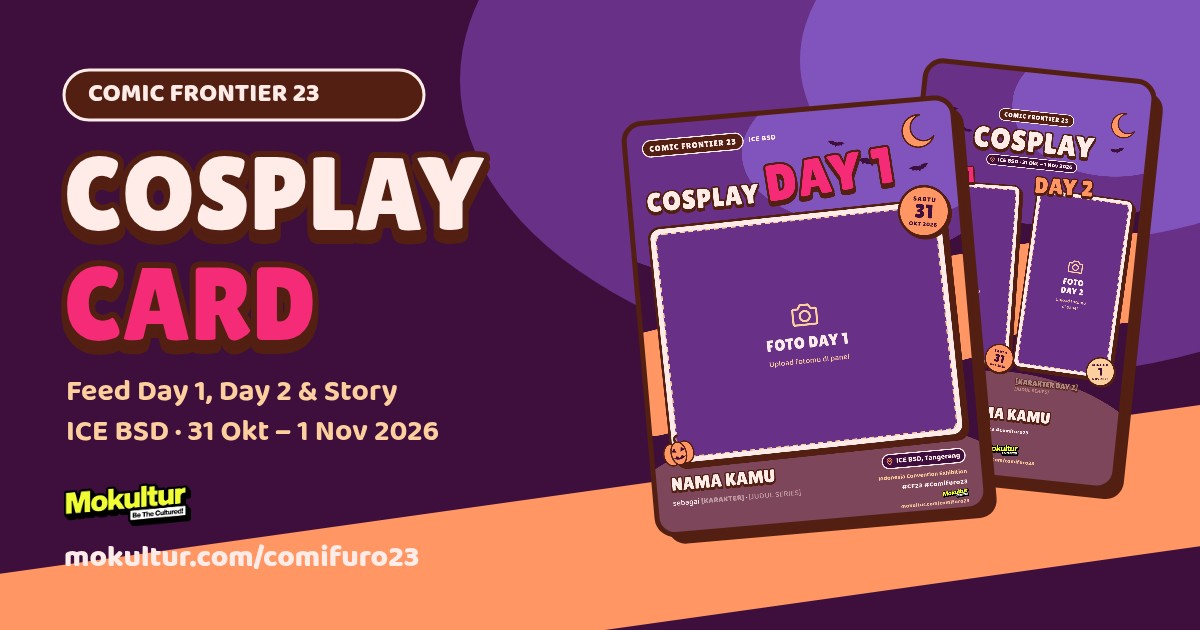
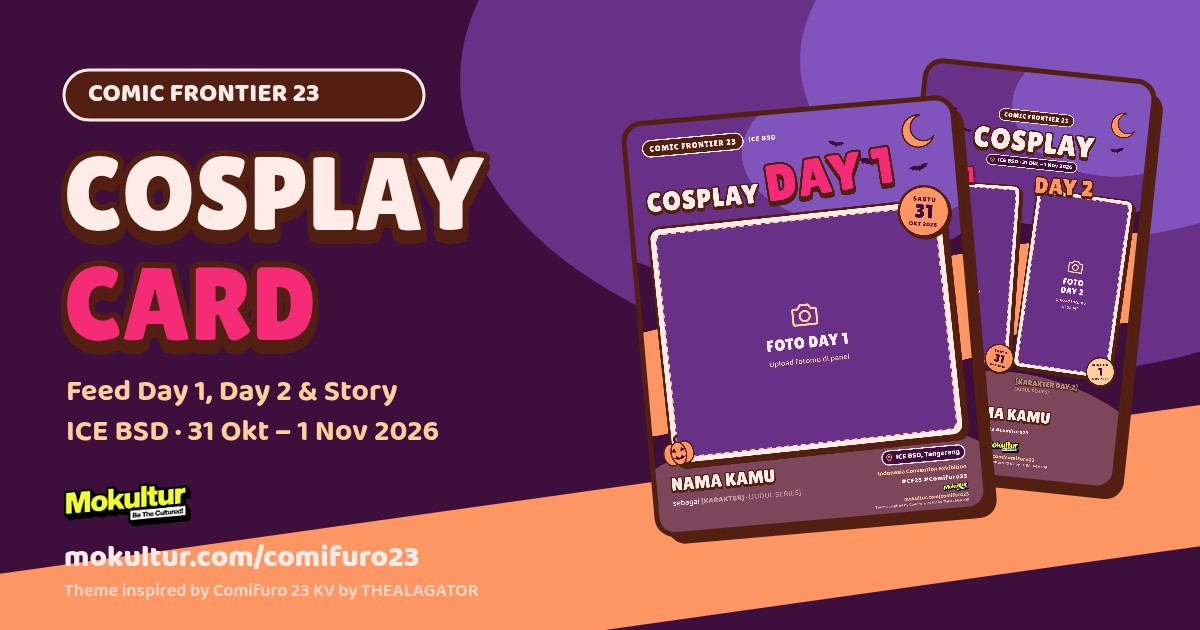
CF23: save every ready format at once; credit the KV
- The save bar's button saves every format whose photos are in, in one go.
  Feed Day 1 and Day 2 are ready as soon as their photo is in; Story once
  both are.
- The button reads "Upload foto Day N" until a format is ready, then
  "Download PNG" or "Download semua (3)" ("Simpan" on phones that share
  files). The per-format download and share buttons are gone. After a
  partial save it suggests adding the other day's photo.
- Under mokultur.com/comifuro23 on Feed, Story and the OG image (v=4):
  "Theme inspired by Comifuro 23 KV by THEALAGATOR". Feed's right column
  moves up slightly to make room.

Claude-Session: https://claude.ai/code/session_01PrRgchUN9mrkP6kn4eVbRs

Changed region(s): [[0.0617, 0.9048, 0.4008, 0.9651], [0.7092, 0.6937, 0.8633, 0.8143]]

diff --git a/src/routes/comifuro23/+page.svelte b/src/routes/comifuro23/+page.svelte
@@ -65,10 +65,12 @@
   function activeDaysHavePhoto(): boolean {
     return (R.TEMPLATES[template].days as Day[]).some((day) => days[day].image);
   }
-  const missing = $derived(activeDays.filter((day) => !days[day].image));
-  const ready = $derived(missing.length === 0);
   const currentLabel = $derived(FORMATS.find((format) => format.id === template)?.label ?? '');
-  const allReady = $derived(Boolean(days[1].image && days[2].image));
+  // Every format whose photos are in: saving always takes all of them at once.
+  const readyFormats = $derived(ALL.filter((id) => (R.TEMPLATES[id].days as Day[]).every((day) => days[day].image)));
+  const readyLabel = $derived(readyFormats.map((id) => FORMATS.find((format) => format.id === id)?.label ?? id).join(', '));
+  /** The first day still without a photo, Day 1 before Day 2. */
+  const nextMissing = $derived(([1, 2] as Day[]).find((day) => !days[day].image) ?? null);
 
   // Mokultur's Instagram, from the site's social links, for the posting call to action.
   const instagram = $derived.by(() => {
@@ -315,21 +317,25 @@
   }
 
   /**
-   * All three formats at once. Phones that can share several files get one share
-   * sheet; elsewhere the PNGs download one after another (a browser may ask once
-   * to allow multiple downloads).
+   * Saves every ready format in one go: Feed Day 1 and Day 2 as soon as their
+   * photo is in, and Story once both are. Phones that can share several files
+   * get one share sheet; elsewhere the PNGs download one after another (a
+   * browser may ask once to allow multiple downloads).
    */
-  async function downloadAll() {
-    if (!allReady || busy) return;
+  async function saveAll() {
+    if (busy) return;
+    if (!readyFormats.length) { pickMissing(); return; }
+    const ids = [...readyFormats];
     busy = true;
-    setStatus('Menyiapkan 3 gambar…');
+    setStatus(ids.length > 1 ? `Menyiapkan ${ids.length} gambar…` : 'Menyiapkan gambar…');
+    const more = nextMissing ? ` Tambah foto Day ${nextMissing} untuk format lainnya.` : '';
     try {
       const files: File[] = [];
-      for (const id of ALL) files.push(await makeFile(id));
+      for (const id of ids) files.push(await makeFile(id));
       if (canShare && navigator.canShare?.({ files })) {
         try {
           await navigator.share({ files, title: 'Cosplay Card CF23', text: caption });
-          setStatus(`3 Cosplay Card siap diposting. Jangan lupa tag ${instagram.handle}!`);
+          setStatus(`Jangan lupa tag ${instagram.handle}!${more}`);
           return;
         } catch (reason) {
           if (reason instanceof DOMException && reason.name === 'AbortError') { setStatus(''); return; }
@@ -339,7 +345,7 @@
         if (index) await new Promise((resolve) => setTimeout(resolve, 450));
         saveFile(file);
       }
-      setStatus(`3 PNG tersimpan. Posting dan tag ${instagram.handle}!`);
+      setStatus(`${files.length} PNG tersimpan. Posting dan tag ${instagram.handle}!${more}`);
     } catch {
       setStatus('Gambar gagal dibuat. Coba lagi, atau pakai foto dengan ukuran lebih kecil.', true);
     } finally {
@@ -357,41 +363,9 @@
     }
   }
 
-  async function download() {
-    if (!ready || busy) return;
-    busy = true;
-    setStatus('Menyiapkan gambar…');
-    try {
-      const file = await makeFile();
-      saveFile(file);
-      setStatus(`Tersimpan. Posting dan tag ${instagram.handle}!`);
-    } catch {
-      setStatus('Gambar gagal dibuat. Coba lagi, atau pakai foto dengan ukuran lebih kecil.', true);
-    } finally {
-      busy = false;
-    }
-  }
-
-  /** Phones: hand the PNG to the share sheet, so it can go straight to Photos or Instagram. */
-  async function share() {
-    if (!ready || busy) return;
-    busy = true;
-    setStatus('Menyiapkan gambar…');
-    try {
-      const file = await makeFile();
-      await navigator.share({ files: [file], title: 'Cosplay Card CF23', text: caption });
-      setStatus(`Jangan lupa tag ${instagram.handle} dan ${HASHTAGS.split(' ').slice(0, 2).join(' ')}!`);
-    } catch (reason) {
-      if (reason instanceof DOMException && reason.name === 'AbortError') setStatus('');
-      else setStatus('Tidak bisa membuka menu bagikan. Pakai tombol Download.', true);
-    } finally {
-      busy = false;
-    }
-  }
-
-  /** The save bar's first job: while a photo is missing, its main button picks it. */
+  /** The save bar's first job: while no format is ready, its main button picks the next photo. */
   function pickMissing() {
-    const input = document.getElementById(`cf23-photo-${missing[0]}`) as HTMLInputElement | null;
+    const input = document.getElementById(`cf23-photo-${nextMissing ?? 1}`) as HTMLInputElement | null;
     input?.click();
   }
 
@@ -440,13 +414,13 @@
   <meta property="og:title" content={TITLE} />
   <meta property="og:description" content={DESCRIPTION} />
   <meta property="og:url" content={absoluteUrl('/comifuro23')} />
-  <meta property="og:image" content={absoluteUrl('/assets/og/comifuro23.jpg?v=3')} />
+  <meta property="og:image" content={absoluteUrl('/assets/og/comifuro23.jpg?v=4')} />
   <meta property="og:image:width" content="1200" />
   <meta property="og:image:height" content="630" />
   <meta name="twitter:card" content="summary_large_image" />
   <meta name="twitter:title" content={TITLE} />
   <meta name="twitter:description" content={DESCRIPTION} />
-  <meta name="twitter:image" content={absoluteUrl('/assets/og/comifuro23.jpg?v=3')} />
+  <meta name="twitter:image" content={absoluteUrl('/assets/og/comifuro23.jpg?v=4')} />
   <meta name="theme-color" content="#3E0F3D" />
   {@html `<script type="application/ld+json">${JSON.stringify(buildBreadcrumb([{ name: 'Cosplay Card CF23', path: '/comifuro23' }]))}<\/script>`}
 </svelte:head>
@@ -571,16 +545,16 @@
       <p class="cf23-post__lead">Pamerin cosplay-mu di Instagram dan tag <a href={instagram.url} target="_blank" rel="noopener noreferrer">{instagram.handle}</a> biar kami bisa lihat. Pakai <strong>#CF23 #Comifuro23</strong> ya!</p>
 
       <ol class="cf23-post__steps">
-        <li><span>1</span>Simpan Cosplay Card: satu format, atau semuanya sekaligus.</li>
+        <li><span>1</span>Simpan Cosplay Card: semua format yang siap tersimpan sekaligus.</li>
         <li><span>2</span>Posting Feed Day 1 / Day 2, dan Story Day 1 + 2 di Instagram.</li>
         <li><span>3</span>Tempel caption di bawah, lalu tag {instagram.handle}.</li>
       </ol>
 
-      <button type="button" class="cf23-all" onclick={downloadAll} disabled={!allReady || busy}>
+      <button type="button" class="cf23-all" onclick={saveAll} disabled={!readyFormats.length || busy}>
         <i class="bi {canShare ? 'bi-share-fill' : 'bi-download'}" aria-hidden="true"></i>
         <span>
-          <strong>{canShare ? 'Simpan semua (3)' : 'Download semua (3 PNG)'}</strong>
-          <small>{allReady ? 'Feed Day 1, Day 2 & Story' : 'Upload foto Day 1 dan Day 2 dulu'}</small>
+          <strong>{canShare ? 'Simpan' : 'Download'} semua ({readyFormats.length || 3} PNG)</strong>
+          <small>{readyFormats.length ? readyLabel : 'Upload foto Day 1 dan Day 2 dulu'}</small>
         </span>
       </button>
 
@@ -600,13 +574,12 @@
       <p class="cf23-status" class:is-error={statusError} role="status" aria-live="polite">{status}</p>
       <div class="cf23-actions__buttons">
         <button type="button" class="cf23-ghost cf23-ghost--light cf23-to-preview" onclick={scrollToPreview} aria-label="Lihat preview"><i class="bi bi-eye" aria-hidden="true"></i></button>
-        {#if !ready}
-          <button type="button" class="cf23-primary" onclick={pickMissing}><i class="bi bi-camera-fill" aria-hidden="true"></i>Upload foto Day {missing[0]}</button>
-        {:else if canShare}
-          <button type="button" class="cf23-primary" onclick={share} disabled={!ready || busy}><i class="bi bi-share-fill" aria-hidden="true"></i>Simpan / Bagikan</button>
-          <button type="button" class="cf23-ghost cf23-ghost--light" onclick={download} disabled={!ready || busy} aria-label="Download PNG"><i class="bi bi-download" aria-hidden="true"></i></button>
+        {#if !readyFormats.length}
+          <button type="button" class="cf23-primary" onclick={pickMissing}><i class="bi bi-camera-fill" aria-hidden="true"></i>Upload foto Day {nextMissing ?? 1}</button>
         {:else}
-          <button type="button" class="cf23-primary" onclick={download} disabled={!ready || busy}><i class="bi bi-download" aria-hidden="true"></i>Download PNG</button>
+          <button type="button" class="cf23-primary" onclick={saveAll} disabled={busy}>
+            <i class="bi {canShare ? 'bi-share-fill' : 'bi-download'}" aria-hidden="true"></i>{canShare ? 'Simpan' : 'Download'} {readyFormats.length > 1 ? `semua (${readyFormats.length})` : 'PNG'}
+          </button>
         {/if}
       </div>
     </div>

diff --git a/src/lib/cf23/render.js b/src/lib/cf23/render.js
@@ -63,7 +63,7 @@ const CF23Render = (function () {
   var DEG = Math.PI / 180;
 
   // ---------- Kredit Mokultur (logo kecil + URL halaman) ----------
-  var BRAND = { logo: null, url: 'mokultur.com/comifuro23' };
+  var BRAND = { logo: null, url: 'mokultur.com/comifuro23', credit: 'Theme inspired by Comifuro 23 KV by THEALAGATOR' };
 
   /** Muat logo dari domain yang sama, supaya canvas tidak "tainted" dan download tetap jalan. */
   function loadBrand(src) {
@@ -92,7 +92,16 @@ const CF23Render = (function () {
     ctx.fillStyle = o.fill;
     ctx.textAlign = o.align === 'right' ? 'right' : 'center';
     ctx.textBaseline = 'alphabetic';
-    ctx.fillText(BRAND.url, x, top + (BRAND.logo ? logoH + o.gap : 0) + o.size * 0.8);
+    var urlBase = top + (BRAND.logo ? logoH + o.gap : 0) + o.size * 0.8;
+    ctx.fillText(BRAND.url, x, urlBase);
+    // Credit for the key visual the theme is drawn from, under the URL.
+    if (o.creditSize) {
+      setFont(ctx, '600', o.creditSize, BODY);
+      setSpacing(ctx, 0.2);
+      ctx.globalAlpha = 0.72;
+      ctx.fillStyle = COLORS.cream;
+      ctx.fillText(BRAND.credit, x, urlBase + o.creditSize * 1.35);
+    }
     ctx.restore();
   }
 
@@ -467,13 +476,13 @@ const CF23Render = (function () {
     if (parts) richLine(ctx, parts, P, data.username == null ? 1256 : 1284, { size: 26, fill: c.cream, maxWidth: leftMax });
 
     pill(ctx, {
-      x: 1024, y: 1148, anchor: 'right', height: 50, padL: 12, padR: 18, text: EVENT.venue,
+      x: 1024, y: 1136, anchor: 'right', height: 50, padL: 12, padR: 18, text: EVENT.venue,
       weight: '800', size: 24, bg: c.plum, border: c.cream, borderWidth: 4, color: c.cream,
       icon: PIN, iconSize: 28, iconColor: c.orange, nudge: 2
     });
-    plain(ctx, EVENT.venueFull, 1024, 1232, { size: 20, weight: '700', fill: c.peach, align: 'right' });
-    plain(ctx, EVENT.hashtags, 1024, 1266, { size: 22, weight: '800', fill: c.cream, align: 'right', letterSpacing: 1 });
-    brandMark(ctx, 1024, 1280, { size: 18, logoHeight: 30, gap: 4, fill: c.peach, align: 'right' });
+    plain(ctx, EVENT.venueFull, 1024, 1216, { size: 20, weight: '700', fill: c.peach, align: 'right' });
+    plain(ctx, EVENT.hashtags, 1024, 1248, { size: 22, weight: '800', fill: c.cream, align: 'right', letterSpacing: 1 });
+    brandMark(ctx, 1024, 1260, { size: 17, logoHeight: 28, gap: 4, fill: c.peach, align: 'right', creditSize: 13 });
 
     return [slot];
   }
@@ -552,7 +561,7 @@ const CF23Render = (function () {
     var user = data.username == null ? null : field(cleanHandle(data.username) ? '@' + cleanHandle(data.username) : '', '@[username]', hints);
     if (user) plain(ctx, user.text, 540, 1668, { size: 36, weight: '800', fill: c.peach, align: 'center', maxWidth: 940, alpha: user.alpha });
     plain(ctx, EVENT.hashtags, 540, 1704, { size: 24, weight: '800', fill: c.cream, align: 'center', letterSpacing: 1 });
-    brandMark(ctx, 540, 1760, { size: 26, logoHeight: 56, gap: 8, fill: c.peach, align: 'center' });
+    brandMark(ctx, 540, 1744, { size: 26, logoHeight: 56, gap: 8, fill: c.peach, align: 'center', creditSize: 19 });
 
     return slots;
   }
